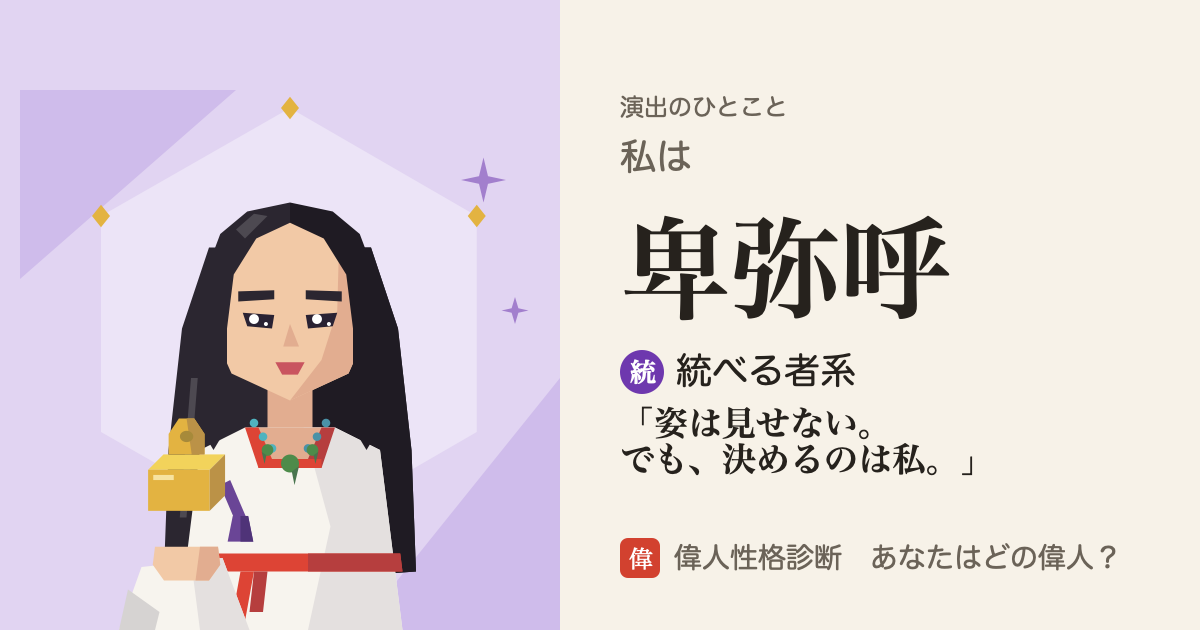
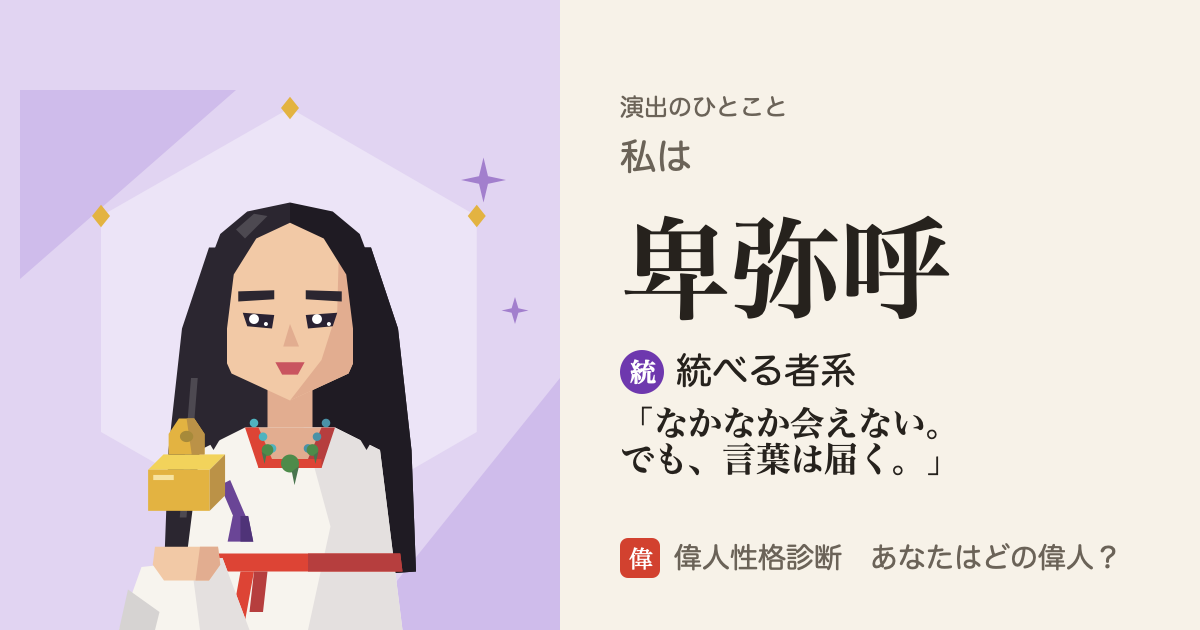
公開 版 20a9dbe-202610291637

Changed region(s): [[0.5242, 0.6333, 0.8017, 0.754]]

diff --git a/app/main.js b/app/main.js
@@ -1,28 +1,28 @@
 // 画面：トップ（#/）→ 質問（#/q/<mode>）→ 結果（#/r/<mode>/<回答>）／ 図鑑（#/zukan）
 // 結果のURLには回答（1〜5の数字の列）が入るので、そのままシェアできる。
 // 設計の根拠：docs/ui-redesign.md（デザイナー）、docs/game-design-review.md の P0（ゲーム開発者）
-import { AXES, BATTLE_EVEN_THRESHOLD, Shindan, loadData } from "./shindan.js?v=328c47d-202610291536";
-import { mountMotion } from "./motion.js?v=328c47d-202610291536";
-import { mountGuide } from "./guide.js?v=328c47d-202610291536";
+import { AXES, BATTLE_EVEN_THRESHOLD, Shindan, loadData } from "./shindan.js?v=20a9dbe-202610291637";
+import { mountMotion } from "./motion.js?v=20a9dbe-202610291637";
+import { mountGuide } from "./guide.js?v=20a9dbe-202610291637";
 import { SELF_KEY, LEGACY_SELF_KEYS, blankSelfState, readSelfState, initializeSelfState, armSelfClear,
-  writeSelfState, rebaselineLegacySelfState, nextDiagnosisState, nextRestoredState, nextZukanSettledState } from "./self_state.js?v=328c47d-202610291536";
-import { createInviteToken, validInviteToken, validFriendCode, makeFriendCode, friendAnswersFromCode, makeInviteUrl, makeReplyUrl, parseSocialHash, otherPilotAllowed } from "./social.js?v=328c47d-202610291536";
-import { orderOtherV1Questions, otherV1ProgressIndex } from "./other_v1.js?v=328c47d-202610291536";
-import { appendOtherReply, removeOtherReply } from "./other_replies.js?v=328c47d-202610291536";
-import { prependPersonCard, distinctCardFigures, figureSetProgress, cleanPersonCardLabel, personCardDisplayName, personCardNeedsLabel } from "./people.js?v=328c47d-202610291536";
-import { isSharedResultEntry, sharedResultViewPath, withoutSharedResultParam } from "./shared_entry.js?v=328c47d-202610291536";
-import { rememberSharedReturn, readSharedReturn } from "./shared_return.js?v=328c47d-202610291536";
-import { storedResultMatches, storedList } from "./stored_result.js?v=328c47d-202610291536";
-import { clearPrefixedStorage } from "./storage_clear.js?v=328c47d-202610291536";
-import { readClearEpoch, compareClearEpoch, ensureClearEpoch, advanceClearEpoch } from "./storage_epoch.js?v=328c47d-202610291536";
-import { applyZukanBatch } from "./zukan_batch.js?v=328c47d-202610291536";
+  writeSelfState, rebaselineLegacySelfState, nextDiagnosisState, nextRestoredState, nextZukanSettledState } from "./self_state.js?v=20a9dbe-202610291637";
+import { createInviteToken, validInviteToken, validFriendCode, makeFriendCode, friendAnswersFromCode, makeInviteUrl, makeReplyUrl, parseSocialHash, otherPilotAllowed } from "./social.js?v=20a9dbe-202610291637";
+import { orderOtherV1Questions, otherV1ProgressIndex } from "./other_v1.js?v=20a9dbe-202610291637";
+import { appendOtherReply, removeOtherReply } from "./other_replies.js?v=20a9dbe-202610291637";
+import { prependPersonCard, distinctCardFigures, figureSetProgress, cleanPersonCardLabel, personCardDisplayName, personCardNeedsLabel } from "./people.js?v=20a9dbe-202610291637";
+import { isSharedResultEntry, sharedResultViewPath, withoutSharedResultParam } from "./shared_entry.js?v=20a9dbe-202610291637";
+import { rememberSharedReturn, readSharedReturn } from "./shared_return.js?v=20a9dbe-202610291637";
+import { storedResultMatches, storedList } from "./stored_result.js?v=20a9dbe-202610291637";
+import { clearPrefixedStorage } from "./storage_clear.js?v=20a9dbe-202610291637";
+import { readClearEpoch, compareClearEpoch, ensureClearEpoch, advanceClearEpoch } from "./storage_epoch.js?v=20a9dbe-202610291637";
+import { applyZukanBatch } from "./zukan_batch.js?v=20a9dbe-202610291637";
 
 const $ = (s, el = document) => el.querySelector(s);
 const app = $("#app"), overlay = $("#overlay"), sheet = $("#sheet");
 const getJSON = (u) => fetch(u).then((r) => r.json());
 async function loadInitialState() {
   try {
-    const [data, meta] = await Promise.all([loadData(), getJSON("meta.json?v=328c47d-202610291536")]);
+    const [data, meta] = await Promise.all([loadData(), getJSON("meta.json?v=20a9dbe-202610291637")]);
     const engines = { normal: new Shindan(data, "free", "normal"), love: new Shindan(data, "free", "love") };
     // OTHER の設問は試験中。未較正の人物判定を実行せず、回答そのものを返す。
     const otherQuestions = orderOtherV1Questions(data.questions_friend.questions);

diff --git a/app/s/normal/himiko.html b/app/s/normal/himiko.html
@@ -1,6 +1,6 @@
 <!doctype html><html lang="ja"><head><meta charset="utf-8">
 <title>卑弥呼タイプでした｜偉人性格診断</title>
-<meta property="og:title" content="卑弥呼タイプでした｜偉人性格診断"><meta property="og:description" content="統べる者系：演出のひとこと（本人の発言とは限りません）「姿は見せない。でも、決めるのは私。」 あなたはどの偉人？ 12問でわかる">
+<meta property="og:title" content="卑弥呼タイプでした｜偉人性格診断"><meta property="og:description" content="統べる者系：演出のひとこと（本人の発言とは限りません）「なかなか会えない。でも、言葉は届く。」 あなたはどの偉人？ 12問でわかる">
 <meta property="og:image" content="https://ijin-shindan.github.io/app/og/normal/himiko.png"><meta property="og:image:width" content="1200"><meta property="og:image:height" content="630">
 <meta property="og:url" content="https://ijin-shindan.github.io/app/s/normal/himiko.html"><meta property="og:type" content="website"><meta name="twitter:card" content="summary_large_image">
 <meta name="robots" content="noindex">

diff --git a/app/index.html b/app/index.html
@@ -15,7 +15,7 @@
   <link rel="icon" href="icons/favicon.svg" type="image/svg+xml">
   <link rel="icon" href="icons/favicon-32.png" sizes="32x32" type="image/png">
   <link rel="apple-touch-icon" href="icons/apple-touch-icon.png">
-  <link rel="stylesheet" href="style.css?v=328c47d-202610291536">
+  <link rel="stylesheet" href="style.css?v=20a9dbe-202610291637">
   <link rel="stylesheet" href="motion.css?v=5">
   <link rel="stylesheet" href="guide.css?v=6">
 </head>
@@ -42,7 +42,7 @@
   </main>
   <div id="overlay" hidden></div>
   <div id="sheet" hidden></div>
-  <script type="module" src="main.js?v=328c47d-202610291536"></script>
+  <script type="module" src="main.js?v=20a9dbe-202610291637"></script>
   <script>
     let bootFailed = false;
     function showBootFailure() {

diff --git a/app/shindan.js b/app/shindan.js
@@ -9,7 +9,7 @@ const dot = (a, b) => a.reduce((s, x, i) => s + x * b[i], 0);
 
 export async function loadData(base = "../data/") {
   const names = ["axes", "types", "rules", "plans", "questions", "questions_love", "questions_friend", "texts"];
-  const jsons = await Promise.all(names.map((n) => fetch(`${base}${n}.json?v=328c47d-202610291536`).then((r) => r.json())));
+  const jsons = await Promise.all(names.map((n) => fetch(`${base}${n}.json?v=20a9dbe-202610291637`).then((r) => r.json())));
   return Object.fromEntries(names.map((n, i) => [n, jsons[i]]));
 }
 

diff --git a/app/other_replies.js b/app/other_replies.js
@@ -1,5 +1,5 @@
 // 他己回答は別人の証明ができない。端末内の返信記録としてだけ扱う。
-import { validInviteToken, validFriendCode } from "./social.js?v=328c47d-202610291536";
+import { validInviteToken, validFriendCode } from "./social.js?v=20a9dbe-202610291637";
 
 export function appendOtherReply(records, entry, maxRecords = 50) {
   if (!Array.isArray(records) || !validInviteToken(entry?.token) || !validFriendCode(entry?.code))

diff --git a/app/people.js b/app/people.js
@@ -1,5 +1,5 @@
 // 回答コードは人物の識別子ではない。同じ回答の別人もカード化できる。
-import { validInviteToken } from "./social.js?v=328c47d-202610291536";
+import { validInviteToken } from "./social.js?v=20a9dbe-202610291637";
 
 export function prependPersonCard(cards, card, maxCards = 50, isUsable = () => true) {
   if (!Array.isArray(cards) || cards.filter(isUsable).length >= maxCards) return null;
